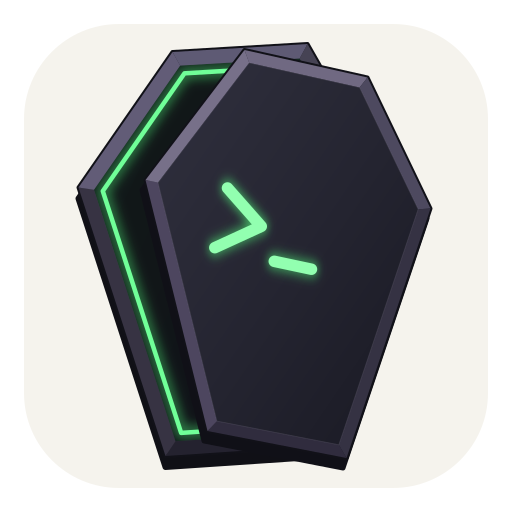
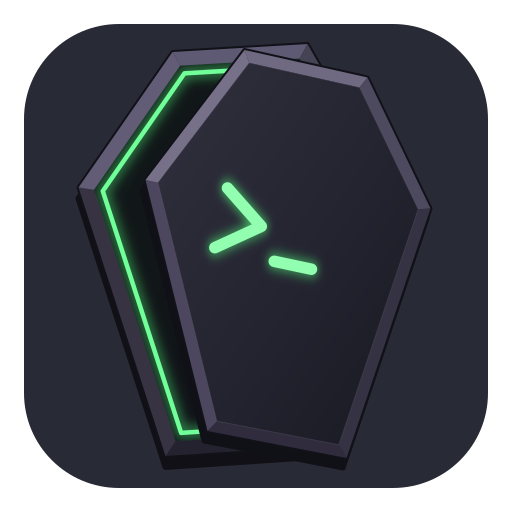
Fix macOS transparency and show config errors in window

diff --git a/src/render/gpu.rs b/src/render/gpu.rs
@@ -184,33 +184,28 @@ impl Gpu {
                 failure,
                 needs_configure: false,
                 opaque_alpha,
-                transparent_alpha: capabilities
-                    .alpha_modes
-                    .iter()
-                    .copied()
-                    .find(|mode| {
-                        *mode == wgpu::CompositeAlphaMode::PreMultiplied
-                    }),
+                transparent_alpha: transparent_alpha(
+                    &capabilities.alpha_modes,
+                    info.backend,
+                ),
             });
         }
         bail!("No usable GPU found. {}", errors.join("; "))
     }
 
     pub fn set_opacity(&mut self, opacity: crate::config::Opacity) -> bool {
-        let (opacity, alpha) = match (
-            opacity.transparent(),
-            self.transparent_alpha,
-        ) {
-            (true, Some(alpha)) => (opacity, alpha),
-            (true, None) => {
-                eprintln!(
-                    "Cryptty: GPU surface lacks premultiplied transparency; \
+        let (opacity, alpha) =
+            match (opacity.transparent(), self.transparent_alpha) {
+                (true, Some(alpha)) => (opacity, alpha),
+                (true, None) => {
+                    eprintln!(
+                        "Cryptty: GPU surface lacks transparency support; \
                      using an opaque background"
-                );
-                (crate::config::Opacity::default(), self.opaque_alpha)
-            }
-            (false, _) => (opacity, self.opaque_alpha),
-        };
+                    );
+                    (crate::config::Opacity::default(), self.opaque_alpha)
+                }
+                (false, _) => (opacity, self.opaque_alpha),
+            };
         self.painter
             .set_opacity(&self.device, self.config.format, opacity);
         if self.config.alpha_mode != alpha {
@@ -291,6 +286,22 @@ impl Gpu {
     }
 }
 
+fn transparent_alpha(
+    modes: &[wgpu::CompositeAlphaMode],
+    backend: wgpu::Backend,
+) -> Option<wgpu::CompositeAlphaMode> {
+    use wgpu::CompositeAlphaMode::{PostMultiplied, PreMultiplied};
+    if modes.contains(&PreMultiplied) {
+        Some(PreMultiplied)
+    } else if backend == wgpu::Backend::Metal && modes.contains(&PostMultiplied)
+    {
+        // wgpu 30 labels Metal's premultiplied compositor as postmultiplied.
+        Some(PostMultiplied)
+    } else {
+        None
+    }
+}
+
 fn surface_format(
     formats: &[wgpu::TextureFormat],
 ) -> Option<wgpu::TextureFormat> {
@@ -305,8 +316,26 @@ fn surface_format(
 
 #[cfg(test)]
 mod tests {
-    use super::surface_format;
+    use super::{surface_format, transparent_alpha};
     use wgpu::TextureFormat::*;
+
+    #[test]
+    fn transparent_surface_uses_premultiplied_compositor_pixels() {
+        use wgpu::Backend::{Metal, Vulkan};
+        use wgpu::CompositeAlphaMode::{Opaque, PostMultiplied, PreMultiplied};
+        assert_eq!(transparent_alpha(&[Opaque], Metal), None);
+        assert_eq!(
+            transparent_alpha(&[Opaque, PostMultiplied], Metal),
+            Some(PostMultiplied),
+        );
+        assert_eq!(transparent_alpha(&[PostMultiplied], Vulkan), None);
+        for backend in [Metal, Vulkan] {
+            assert_eq!(
+                transparent_alpha(&[PostMultiplied, PreMultiplied], backend),
+                Some(PreMultiplied),
+            );
+        }
+    }
 
     #[test]
     fn surface_preserves_glyph_alpha_precision_without_srgb_encoding() {

diff --git a/src/render/tooltip.rs b/src/render/tooltip.rs
@@ -17,6 +17,12 @@ pub(super) struct Layout {
 }
 
 impl Renderer {
+    pub fn set_notice(&mut self, message: Option<&str>) {
+        self.notice = message
+            .map(|text| text.split_whitespace().collect::<Vec<_>>().join(" "));
+        self.invalidate();
+    }
+
     pub fn set_link_tooltip(
         &mut self,
         uri: Option<&str>,
@@ -34,14 +40,17 @@ impl Renderer {
         true
     }
 
-    pub(super) fn tooltip_layout(
+    pub(super) fn overlay_layout(
         &self,
         size: (usize, usize),
     ) -> Option<Layout> {
-        let tooltip = self.tooltip.as_ref()?;
         let cols = size.0.saturating_sub(2 * self.padding.0) / self.cell_width;
         let rows = size.1.saturating_sub(2 * self.padding.1) / self.cell_height;
-        layout(&tooltip.uri, tooltip.pointer, (cols, rows))
+        if let Some(message) = &self.notice {
+            return layout(message, (0, rows), (cols, rows), 8);
+        }
+        let tooltip = self.tooltip.as_ref()?;
+        layout(&tooltip.uri, tooltip.pointer, (cols, rows), 4)
     }
 }
 
@@ -49,12 +58,13 @@ fn layout(
     uri: &str,
     pointer: (usize, usize),
     size: (usize, usize),
+    max_rows: usize,
 ) -> Option<Layout> {
     if size.0 < 4 || size.1 < 2 {
         return None;
     }
     let width = size.0.min(80) - 2;
-    let max_rows = size.1.saturating_sub(1).min(4);
+    let max_rows = size.1.saturating_sub(1).min(max_rows);
     let mut glyphs = Vec::new();
     let (mut x, mut y) = (0, 0);
     let mut used = 0;
@@ -106,6 +116,7 @@ mod tests {
                 &format!("file:///中文/{}", "abc".repeat(80)),
                 pointer,
                 (20, 6),
+                4,
             )
             .unwrap();
             assert!(result.col + result.cols <= 20);
@@ -116,7 +127,26 @@ mod tests {
                 assert!(y < result.row + result.rows);
             }
         }
-        assert!(layout("file:///tmp", (0, 0), (3, 1)).is_none());
+        assert!(layout("file:///tmp", (0, 0), (3, 1), 4).is_none());
+    }
+
+    #[test]
+    fn notice_overrides_hover_and_clears_without_changing_terminal() {
+        let mut renderer = Renderer::new(16.0).unwrap();
+        let terminal = crate::terminal::Terminal::new(40, 10);
+        renderer.set_link_tooltip(Some("file:///tmp"), (2, 2));
+        renderer.draw(&terminal, 640, 320, "");
+        let before = renderer.pixels.clone();
+        renderer
+            .set_notice(Some("Config reload failed:\nwindow: invalid value"));
+        let layout = renderer.overlay_layout((640, 320)).unwrap();
+        let text: String = layout.glyphs.iter().map(|g| g.0).collect();
+        assert_eq!(text, "Config reload failed: window: invalid value");
+        renderer.draw(&terminal, 640, 320, "");
+        assert_ne!(renderer.pixels, before);
+        renderer.set_notice(None);
+        renderer.draw(&terminal, 640, 320, "");
+        assert_eq!(renderer.pixels, before);
     }
 
     #[test]

diff --git a/src/main.rs b/src/main.rs
@@ -56,6 +56,7 @@ struct View {
     displayed_title: String,
     backlog_full: bool,
     config_reload_failed: bool,
+    config_error: Option<(String, Instant)>,
 }
 
 struct App {
@@ -142,6 +143,7 @@ impl App {
             displayed_title: "Cryptty".into(),
             backlog_full: false,
             config_reload_failed: false,
+            config_error: None,
         });
         self.view.as_mut().unwrap().draw()?;
         self.view.as_ref().unwrap().window.set_visible(true);
@@ -277,6 +279,9 @@ impl View {
                     &self.font.codepoint_map,
                     &self.font.fallback,
                 )?;
+                if let Some((message, _)) = &self.config_error {
+                    self.renderer.set_notice(Some(message));
+                }
                 self.display.clear_glyphs();
                 self.resize()?;
             }
@@ -463,6 +468,14 @@ impl ApplicationHandler<()> for App {
         } else {
             view.terminal.synchronized_until()
         };
+        if let Some((_, deadline)) = view.config_error.as_ref() {
+            let deadline = *deadline;
+            if deadline <= now {
+                view.config_error = None;
+                view.renderer.set_notice(None);
+                view.window.request_redraw();
+            }
+        }
         if wake.is_some_and(|t| t <= now) {
             view.terminal.finish_synchronized_update();
             view.window.request_redraw();
@@ -516,6 +529,10 @@ impl ApplicationHandler<()> for App {
             wake = Some(wake.map_or(deadline, |t| t.min(deadline)));
         }
         if let Some(deadline) = view.tmux.deadline() {
+            wake = Some(wake.map_or(deadline, |t| t.min(deadline)));
+        }
+        if let Some((_, deadline)) = view.config_error.as_ref() {
+            let deadline = *deadline;
             wake = Some(wake.map_or(deadline, |t| t.min(deadline)));
         }
         events.set_control_flow(

diff --git a/src/reload.rs b/src/reload.rs
@@ -1,5 +1,6 @@
 use anyhow::Result;
 use cryptty::{config::Config, render::Renderer};
+use std::time::{Duration, Instant};
 
 use crate::{View, pty_size};
 
@@ -10,10 +11,21 @@ impl View {
             Config::load().and_then(|config| self.apply_config(config));
         self.config_reload_failed = result.is_err();
         match result {
-            Ok(()) => eprintln!("Cryptty: configuration reloaded"),
-            Err(error) => eprintln!("Cryptty: config reload failed: {error:#}"),
+            Ok(()) => {
+                self.config_error = None;
+                self.renderer.set_notice(None);
+                eprintln!("Cryptty: configuration reloaded");
+            }
+            Err(error) => {
+                let message = format!("Config reload failed: {error:#}");
+                eprintln!("Cryptty: {message}");
+                self.renderer.set_notice(Some(&message));
+                self.config_error =
+                    Some((message, Instant::now() + Duration::from_secs(10)));
+            }
         }
         self.update_title();
+        self.window.request_redraw();
     }
 
     fn apply_config(&mut self, config: Config) -> Result<()> {

diff --git a/src/render.rs b/src/render.rs
@@ -54,6 +54,7 @@ pub struct Renderer {
     old_preedit_row: Option<usize>,
     old_vim_mode: bool,
     tooltip: Option<tooltip::Tooltip>,
+    notice: Option<String>,
 }
 
 impl Renderer {
@@ -96,6 +97,7 @@ impl Renderer {
             old_preedit_row: None,
             old_vim_mode: false,
             tooltip: None,
+            notice: None,
         })
     }
 
@@ -156,7 +158,7 @@ impl Renderer {
         if self.old_vim_mode != terminal.vim_mode {
             self.invalidate();
         }
-        if self.tooltip.is_some() {
+        if self.tooltip.is_some() || self.notice.is_some() {
             self.invalidate();
         }
         if self.previous.is_empty() {
@@ -233,7 +235,7 @@ impl Renderer {
                 self.solid(x, y, w, h, terminal.theme().palette[5]);
             }
         }
-        if let Some(layout) = self.tooltip_layout((width, height)) {
+        if let Some(layout) = self.overlay_layout((width, height)) {
             let (left, top) = self.cell_origin(layout.col, layout.row);
             let w = layout.cols * self.cell_width;
             let h = layout.rows * self.cell_height;

diff --git a/src/render/scene.rs b/src/render/scene.rs
@@ -236,7 +236,7 @@ pub(super) fn build(
     }
     if let Some(layout) = scene
         .renderer
-        .tooltip_layout((size.0 as usize, size.1 as usize))
+        .overlay_layout((size.0 as usize, size.1 as usize))
     {
         let (left, top) = scene.renderer.cell_origin(layout.col, layout.row);
         let width = layout.cols * w;

diff --git a/README.md b/README.md
@@ -42,6 +42,8 @@ The desktop entry lives in `assets/cryptty.desktop` for distribution packaging.
 The Wayland application ID matches `org.cryptty.desktop`, so desktops can
 associate running windows with the installed icon. Linux uses the transparent
 coffin artwork in `assets/cryptty-linux.png`; macOS retains its rounded icon.
+The final SVG sources are separate: `assets/cryptty-dracula.svg` for Linux
+and `assets/cryptty-macos.svg` for the dark macOS tile.
 Run `make help` for the available targets.
 
 For profile-guided optimization (PGO), train and build with one command:
@@ -198,7 +200,8 @@ Font settings, padding, opacity, blur, colors, and bindings apply immediately;
 the shell and terminal contents stay in place. Reload reapplies the color
 palette and OSC color reset defaults. A failed reload retains the active
 settings, adds `config reload failed` to the window title, and reports the
-error to stderr. A successful retry clears that title message. Explicit
+error in a ten-second in-window toast and on stderr. A successful retry
+clears the toast and title message. Explicit
 text bindings retain precedence over built-in shortcuts.
 
 For a translucent background, add these settings under `window`:
@@ -216,11 +219,12 @@ light to avoid dark glyph edges. It adds an intermediate GPU texture and a
 full-window encoding pass. `opacity: 1.0` restores the opaque RGB path and
 disables blur. Defaults remain `opacity: 1.0` and `blur: false`.
 
-Transparency requires GPU rendering and a premultiplied surface. The GPU
+Transparency requires GPU rendering and a compatible alpha surface. The GPU
 renderer selects an 8-bit-alpha format to preserve smooth glyph edges.
-Software rendering and GPU surfaces without premultiplied alpha support
-retain an opaque background and log a notice. This includes the current
-Metal backend on macOS. Blur uses the native KDE Wayland effect; its
+Software rendering and unsupported GPU surfaces retain an opaque background
+and log a notice. Metal transparency uses premultiplied pixels with the
+surface mode advertised by wgpu. macOS blur uses the native window effect.
+On Linux, blur uses the native KDE Wayland effect; its
 strength follows desktop settings, without a per-window pixel radius.
 The standard `ext-background-effect-v1` protocol supports current KWin;
 the legacy KDE protocol remains a fallback. Other Wayland compositors may
